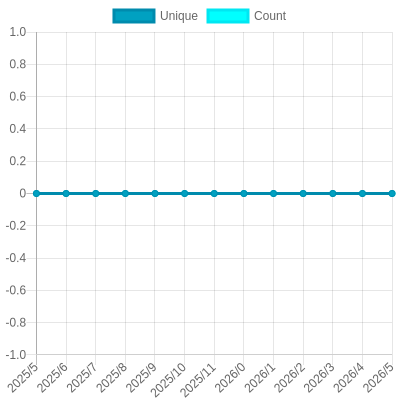
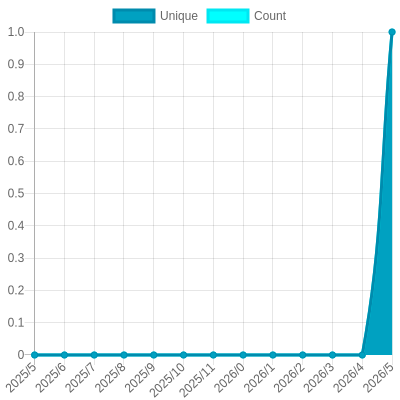
Update views

diff --git a/readme/526965576/year.md b/readme/526965576/year.md
@@ -23,10 +23,10 @@
 			<code>2025/6/1</code>
 		</td>
 		<td>
-			<code>0</code>
+			<code>1</code>
 		</td>
 		<td>
-			<code>0</code>
+			<code>1</code>
 		</td>
 	</tr>
 	<tr>
@@ -164,7 +164,7 @@
 </table>
 
 </details>
-<small><i>Last updated on 2025/6/20 6:20 AM UTC</i></small>
+<small><i>Last updated on 2025/6/20 12:26 PM UTC</i></small>
 
 ## ✂Copy and 📋 Paste
 ### SVG Badge

diff --git a/README.md b/README.md
@@ -549,7 +549,7 @@ The project created and maintained by [gayanvoice](https://github.com/gayanvoice
 	</tr>
 </table>
 
-<small><i>Last updated on 2025/6/20 6:23 AM UTC</i></small>
+<small><i>Last updated on 2025/6/20 12:28 PM UTC</i></small>
 
 ## ✂Copy and 📋 Paste
 ### Total Views Badge

diff --git a/readme/508028497/year.md b/readme/508028497/year.md
@@ -164,7 +164,7 @@
 </table>
 
 </details>
-<small><i>Last updated on 2025/6/20 6:20 AM UTC</i></small>
+<small><i>Last updated on 2025/6/20 12:26 PM UTC</i></small>
 
 ## ✂Copy and 📋 Paste
 ### SVG Badge

diff --git a/readme/513423299/year.md b/readme/513423299/year.md
@@ -164,7 +164,7 @@
 </table>
 
 </details>
-<small><i>Last updated on 2025/6/20 6:20 AM UTC</i></small>
+<small><i>Last updated on 2025/6/20 12:26 PM UTC</i></small>
 
 ## ✂Copy and 📋 Paste
 ### SVG Badge

diff --git a/readme/515932472/year.md b/readme/515932472/year.md
@@ -164,7 +164,7 @@
 </table>
 
 </details>
-<small><i>Last updated on 2025/6/20 6:20 AM UTC</i></small>
+<small><i>Last updated on 2025/6/20 12:26 PM UTC</i></small>
 
 ## ✂Copy and 📋 Paste
 ### SVG Badge

diff --git a/readme/555288473/year.md b/readme/555288473/year.md
@@ -164,7 +164,7 @@
 </table>
 
 </details>
-<small><i>Last updated on 2025/6/20 6:20 AM UTC</i></small>
+<small><i>Last updated on 2025/6/20 12:25 PM UTC</i></small>
 
 ## ✂Copy and 📋 Paste
 ### SVG Badge

diff --git a/readme/565466588/year.md b/readme/565466588/year.md
@@ -164,7 +164,7 @@
 </table>
 
 </details>
-<small><i>Last updated on 2025/6/20 6:20 AM UTC</i></small>
+<small><i>Last updated on 2025/6/20 12:25 PM UTC</i></small>
 
 ## ✂Copy and 📋 Paste
 ### SVG Badge

diff --git a/readme/574462714/year.md b/readme/574462714/year.md
@@ -164,7 +164,7 @@
 </table>
 
 </details>
-<small><i>Last updated on 2025/6/20 6:20 AM UTC</i></small>
+<small><i>Last updated on 2025/6/20 12:25 PM UTC</i></small>
 
 ## ✂Copy and 📋 Paste
 ### SVG Badge

diff --git a/readme/614274554/year.md b/readme/614274554/year.md
@@ -164,7 +164,7 @@
 </table>
 
 </details>
-<small><i>Last updated on 2025/6/20 6:20 AM UTC</i></small>
+<small><i>Last updated on 2025/6/20 12:25 PM UTC</i></small>
 
 ## ✂Copy and 📋 Paste
 ### SVG Badge

diff --git a/readme/616364805/year.md b/readme/616364805/year.md
@@ -164,7 +164,7 @@
 </table>
 
 </details>
-<small><i>Last updated on 2025/6/20 6:19 AM UTC</i></small>
+<small><i>Last updated on 2025/6/20 12:25 PM UTC</i></small>
 
 ## ✂Copy and 📋 Paste
 ### SVG Badge

diff --git a/readme/626462707/year.md b/readme/626462707/year.md
@@ -164,7 +164,7 @@
 </table>
 
 </details>
-<small><i>Last updated on 2025/6/20 6:19 AM UTC</i></small>
+<small><i>Last updated on 2025/6/20 12:25 PM UTC</i></small>
 
 ## ✂Copy and 📋 Paste
 ### SVG Badge

diff --git a/readme/629386293/year.md b/readme/629386293/year.md
@@ -164,7 +164,7 @@
 </table>
 
 </details>
-<small><i>Last updated on 2025/6/20 6:19 AM UTC</i></small>
+<small><i>Last updated on 2025/6/20 12:25 PM UTC</i></small>
 
 ## ✂Copy and 📋 Paste
 ### SVG Badge
